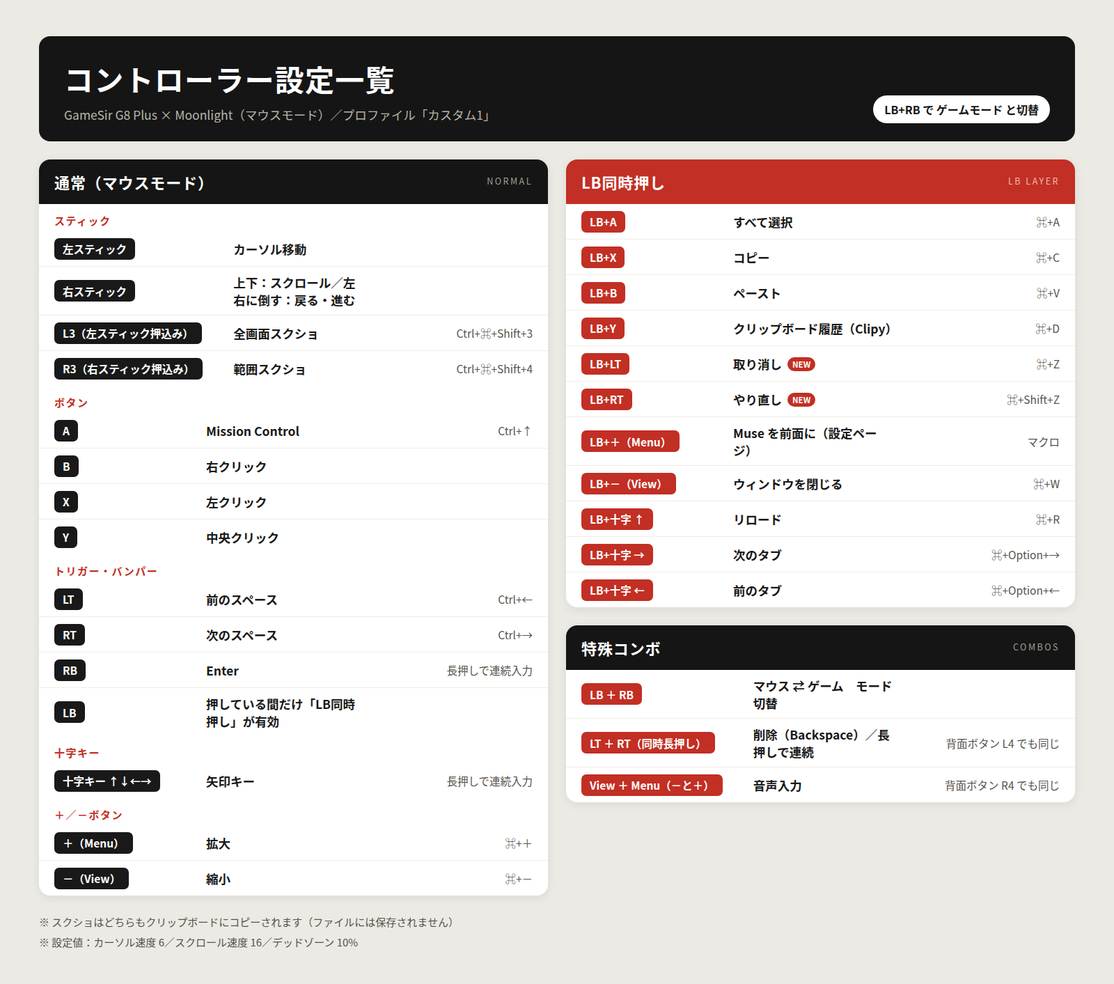
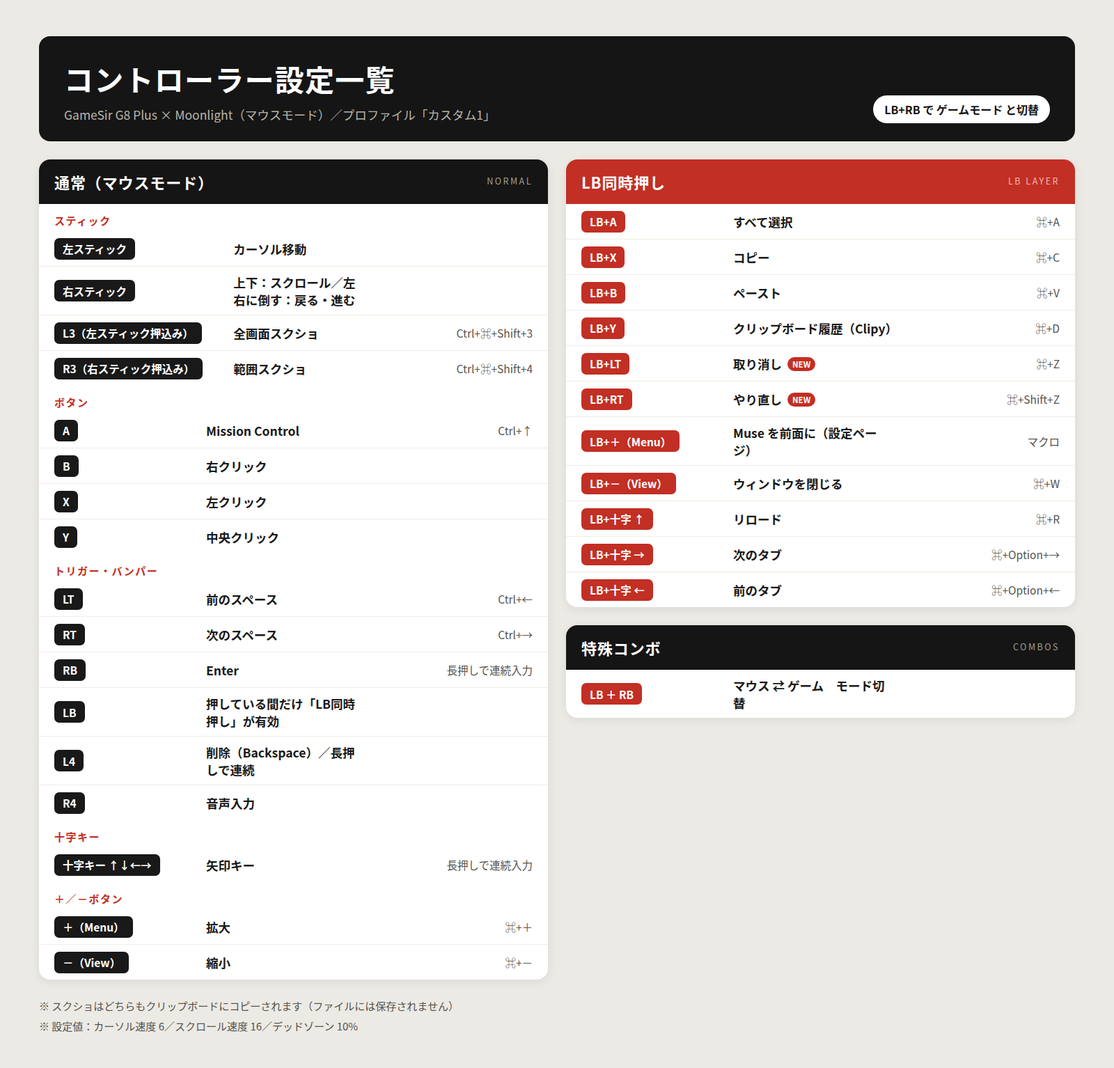
controller-map: simplify L4/R4 rows, move them into trigger/bumper group

Changed region(s): [[0.0312, 0.0311, 0.9688, 0.9653], [0.4062, 0.5916, 0.4688, 0.6851], [0.4062, 0.3114, 0.4688, 0.4048]]

diff --git a/controller-map/v1.html b/controller-map/v1.html
@@ -40,7 +40,7 @@ footer { margin-top: 26px; font-size: 15px; color: #55534e; line-height: 1.9; }
   <div><h1>コントローラー設定一覧</h1><div class="sub">GameSir G8 Plus × Moonlight（マウスモード）／プロファイル「カスタム1」</div></div>
   <div class="mode">LB+RB で <b>ゲームモード</b> と切替</div>
 </header>
-<svg width="1504" height="624" viewBox="0 0 1504 624"><rect x="492" y="84" width="130" height="56" rx="14" fill="#191919"/><text x="557" y="122" text-anchor="middle" font-size="23" font-weight="700" fill="#fff">LT</text><rect x="882" y="84" width="130" height="56" rx="14" fill="#191919"/><text x="947" y="122" text-anchor="middle" font-size="23" font-weight="700" fill="#fff">RT</text><rect x="492" y="146" width="130" height="52" rx="12" fill="#fff" stroke="#191919" stroke-width="3"/><text x="557" y="181" text-anchor="middle" font-size="23" font-weight="700" fill="#191919">LB</text><rect x="882" y="146" width="130" height="52" rx="12" fill="#fff" stroke="#191919" stroke-width="3"/><text x="947" y="181" text-anchor="middle" font-size="23" font-weight="700" fill="#191919">RB</text><rect x="472" y="190" width="560" height="300" rx="100" fill="#ffffff" stroke="#191919" stroke-width="3.5"/><rect x="676" y="224" width="152" height="232" rx="18" fill="none" stroke="#cfccc2" stroke-width="2" stroke-dasharray="7 6"/><circle cx="706" cy="240" r="15" fill="#191919"/><text x="706" y="248" text-anchor="middle" font-size="19" font-weight="700" fill="#fff">－</text><circle cx="798" cy="240" r="15" fill="#191919"/><text x="798" y="248" text-anchor="middle" font-size="19" font-weight="700" fill="#fff">＋</text><circle cx="566" cy="306" r="47" fill="#222"/><circle cx="566" cy="306" r="30" fill="#454545"/><path d="M632 362 h32 v24 h24 v32 h-24 v24 h-32 v-24 h-24 v-32 h24 z" fill="#222"/><circle cx="806" cy="402" r="43" fill="#222"/><circle cx="806" cy="402" r="27" fill="#454545"/><circle cx="892" cy="252" r="25" fill="#fff" stroke="#191919" stroke-width="3"/><text x="892" y="260" text-anchor="middle" font-size="22" font-weight="700" fill="#191919">Y</text><circle cx="838" cy="306" r="25" fill="#fff" stroke="#191919" stroke-width="3"/><text x="838" y="314" text-anchor="middle" font-size="22" font-weight="700" fill="#191919">X</text><circle cx="946" cy="306" r="25" fill="#fff" stroke="#191919" stroke-width="3"/><text x="946" y="314" text-anchor="middle" font-size="22" font-weight="700" fill="#191919">B</text><circle cx="892" cy="360" r="25" fill="#fff" stroke="#191919" stroke-width="3"/><text x="892" y="368" text-anchor="middle" font-size="22" font-weight="700" fill="#191919">A</text><text x="628" y="46" text-anchor="middle" font-size="22" font-weight="700" fill="#191919">－ View</text><text x="628" y="72" text-anchor="middle" font-size="17.5" fill="#55534e">縮小（⌘+－）</text><line x1="652" y1="82" x2="704" y2="219" stroke="#a39e93" stroke-width="1.6"/><circle cx="706" cy="225" r="4.5" fill="#c22f24"/><text x="856" y="46" text-anchor="middle" font-size="22" font-weight="700" fill="#191919">＋ Menu</text><text x="856" y="72" text-anchor="middle" font-size="17.5" fill="#55534e">拡大（⌘+＋）</text><line x1="832" y1="82" x2="800" y2="219" stroke="#a39e93" stroke-width="1.6"/><circle cx="798" cy="225" r="4.5" fill="#c22f24"/><text x="436" y="96" text-anchor="end" font-size="24" font-weight="700" fill="#191919">LT</text><text x="436" y="124" text-anchor="end" font-size="19" fill="#55534e">前のスペース（Ctrl+←）</text><line x1="444" y1="100" x2="492" y2="112" stroke="#a39e93" stroke-width="1.6"/><circle cx="492" cy="112" r="4.5" fill="#c22f24"/><text x="436" y="182" text-anchor="end" font-size="24" font-weight="700" fill="#191919">LB</text><text x="436" y="210" text-anchor="end" font-size="19" fill="#55534e">押している間だけ LB同時押しが有効</text><line x1="444" y1="186" x2="492" y2="172" stroke="#a39e93" stroke-width="1.6"/><circle cx="492" cy="172" r="4.5" fill="#c22f24"/><text x="436" y="268" text-anchor="end" font-size="24" font-weight="700" fill="#191919">左スティック</text><text x="436" y="296" text-anchor="end" font-size="19" fill="#55534e">カーソル移動</text><line x1="444" y1="272" x2="521" y2="296" stroke="#a39e93" stroke-width="1.6"/><circle cx="521" cy="296" r="4.5" fill="#c22f24"/><text x="436" y="352" text-anchor="end" font-size="24" font-weight="700" fill="#191919">L3（押込み）</text><text x="436" y="380" text-anchor="end" font-size="19" fill="#55534e">全画面スクショ（Ctrl+⌘+Shift+3）</text><line x1="444" y1="356" x2="536" y2="342" stroke="#a39e93" stroke-width="1.6"/><circle cx="536" cy="342" r="4.5" fill="#c22f24"/><text x="436" y="452" text-anchor="end" font-size="24" font-weight="700" fill="#191919">十字キー</text><text x="436" y="480" text-anchor="end" font-size="19" fill="#55534e">矢印キー（長押しで連続入力）</text><line x1="444" y1="456" x2="608" y2="402" stroke="#a39e93" stroke-width="1.6"/><circle cx="608" cy="402" r="4.5" fill="#c22f24"/><text x="1068" y="96" font-size="24" font-weight="700" fill="#191919">RT</text><text x="1068" y="124" font-size="19" fill="#55534e">次のスペース（Ctrl+→）</text><line x1="1012" y1="112" x2="1060" y2="100" stroke="#a39e93" stroke-width="1.6"/><circle cx="1012" cy="112" r="4.5" fill="#c22f24"/><text x="1068" y="182" font-size="24" font-weight="700" fill="#191919">RB</text><text x="1068" y="210" font-size="19" fill="#55534e">Enter（長押しで連続入力）</text><line x1="1012" y1="172" x2="1060" y2="186" stroke="#a39e93" stroke-width="1.6"/><circle cx="1012" cy="172" r="4.5" fill="#c22f24"/><line x1="971" y1="300" x2="1056" y2="282" stroke="#a39e93" stroke-width="1.6"/><circle cx="971" cy="300" r="4.5" fill="#c22f24"/><circle cx="1122" cy="240" r="17" fill="#fff" stroke="#191919" stroke-width="2.5"/><text x="1122" y="246" text-anchor="middle" font-size="16" font-weight="700" fill="#191919">Y</text><circle cx="1080" cy="282" r="17" fill="#fff" stroke="#191919" stroke-width="2.5"/><text x="1080" y="288" text-anchor="middle" font-size="16" font-weight="700" fill="#191919">X</text><circle cx="1164" cy="282" r="17" fill="#fff" stroke="#191919" stroke-width="2.5"/><text x="1164" y="288" text-anchor="middle" font-size="16" font-weight="700" fill="#191919">B</text><circle cx="1122" cy="324" r="17" fill="#fff" stroke="#191919" stroke-width="2.5"/><text x="1122" y="330" text-anchor="middle" font-size="16" font-weight="700" fill="#191919">A</text><text x="1200" y="232" font-size="19.5" font-weight="700" fill="#191919">Y　中央クリック</text><text x="1200" y="262" font-size="19.5" font-weight="700" fill="#191919">X　左クリック</text><text x="1200" y="292" font-size="19.5" font-weight="700" fill="#191919">A　Mission Control（Ctrl+↑）</text><text x="1200" y="322" font-size="19.5" font-weight="700" fill="#191919">B　右クリック</text><text x="1068" y="404" font-size="24" font-weight="700" fill="#191919">右スティック</text><text x="1068" y="432" font-size="19" fill="#55534e">上下：スクロール／左右に倒す：戻る・進む</text><line x1="849" y1="402" x2="1060" y2="408" stroke="#a39e93" stroke-width="1.6"/><circle cx="849" cy="402" r="4.5" fill="#c22f24"/><text x="1068" y="492" font-size="24" font-weight="700" fill="#191919">R3（押込み）</text><text x="1068" y="520" font-size="19" fill="#55534e">範囲スクショ（Ctrl+⌘+Shift+4）</text><line x1="836" y1="434" x2="1060" y2="496" stroke="#a39e93" stroke-width="1.6"/><circle cx="836" cy="434" r="4.5" fill="#c22f24"/></svg>
+<svg width="1504" height="624" viewBox="0 0 1504 624"><rect x="492" y="84" width="130" height="56" rx="14" fill="#191919"/><text x="557" y="122" text-anchor="middle" font-size="23" font-weight="700" fill="#fff">LT</text><rect x="882" y="84" width="130" height="56" rx="14" fill="#191919"/><text x="947" y="122" text-anchor="middle" font-size="23" font-weight="700" fill="#fff">RT</text><rect x="492" y="146" width="130" height="52" rx="12" fill="#fff" stroke="#191919" stroke-width="3"/><text x="557" y="181" text-anchor="middle" font-size="23" font-weight="700" fill="#191919">LB</text><rect x="882" y="146" width="130" height="52" rx="12" fill="#fff" stroke="#191919" stroke-width="3"/><text x="947" y="181" text-anchor="middle" font-size="23" font-weight="700" fill="#191919">RB</text><rect x="472" y="190" width="560" height="300" rx="100" fill="#ffffff" stroke="#191919" stroke-width="3.5"/><rect x="676" y="224" width="152" height="232" rx="18" fill="none" stroke="#cfccc2" stroke-width="2" stroke-dasharray="7 6"/><circle cx="706" cy="240" r="15" fill="#191919"/><text x="706" y="248" text-anchor="middle" font-size="19" font-weight="700" fill="#fff">－</text><circle cx="798" cy="240" r="15" fill="#191919"/><text x="798" y="248" text-anchor="middle" font-size="19" font-weight="700" fill="#fff">＋</text><circle cx="566" cy="306" r="47" fill="#222"/><circle cx="566" cy="306" r="30" fill="#454545"/><path d="M632 362 h32 v24 h24 v32 h-24 v24 h-32 v-24 h-24 v-32 h24 z" fill="#222"/><circle cx="806" cy="402" r="43" fill="#222"/><circle cx="806" cy="402" r="27" fill="#454545"/><circle cx="892" cy="252" r="25" fill="#fff" stroke="#191919" stroke-width="3"/><text x="892" y="260" text-anchor="middle" font-size="22" font-weight="700" fill="#191919">Y</text><circle cx="838" cy="306" r="25" fill="#fff" stroke="#191919" stroke-width="3"/><text x="838" y="314" text-anchor="middle" font-size="22" font-weight="700" fill="#191919">X</text><circle cx="946" cy="306" r="25" fill="#fff" stroke="#191919" stroke-width="3"/><text x="946" y="314" text-anchor="middle" font-size="22" font-weight="700" fill="#191919">B</text><circle cx="892" cy="360" r="25" fill="#fff" stroke="#191919" stroke-width="3"/><text x="892" y="368" text-anchor="middle" font-size="22" font-weight="700" fill="#191919">A</text><text x="628" y="46" text-anchor="middle" font-size="22" font-weight="700" fill="#191919">－ View</text><text x="628" y="72" text-anchor="middle" font-size="17.5" fill="#55534e">縮小（⌘+－）</text><line x1="652" y1="82" x2="704" y2="219" stroke="#a39e93" stroke-width="1.6"/><circle cx="706" cy="225" r="4.5" fill="#c22f24"/><text x="856" y="46" text-anchor="middle" font-size="22" font-weight="700" fill="#191919">＋ Menu</text><text x="856" y="72" text-anchor="middle" font-size="17.5" fill="#55534e">拡大（⌘+＋）</text><line x1="832" y1="82" x2="800" y2="219" stroke="#a39e93" stroke-width="1.6"/><circle cx="798" cy="225" r="4.5" fill="#c22f24"/><text x="436" y="96" text-anchor="end" font-size="24" font-weight="700" fill="#191919">LT</text><text x="436" y="124" text-anchor="end" font-size="19" fill="#55534e">前のスペース（Ctrl+←）</text><line x1="444" y1="100" x2="492" y2="112" stroke="#a39e93" stroke-width="1.6"/><circle cx="492" cy="112" r="4.5" fill="#c22f24"/><text x="436" y="182" text-anchor="end" font-size="24" font-weight="700" fill="#191919">LB</text><text x="436" y="210" text-anchor="end" font-size="19" fill="#55534e">押している間だけ LB同時押しが有効</text><line x1="444" y1="186" x2="492" y2="172" stroke="#a39e93" stroke-width="1.6"/><circle cx="492" cy="172" r="4.5" fill="#c22f24"/><text x="436" y="268" text-anchor="end" font-size="24" font-weight="700" fill="#191919">左スティック</text><text x="436" y="296" text-anchor="end" font-size="19" fill="#55534e">カーソル移動</text><line x1="444" y1="272" x2="521" y2="296" stroke="#a39e93" stroke-width="1.6"/><circle cx="521" cy="296" r="4.5" fill="#c22f24"/><text x="436" y="352" text-anchor="end" font-size="24" font-weight="700" fill="#191919">L3（押込み）</text><text x="436" y="380" text-anchor="end" font-size="19" fill="#55534e">全画面スクショ（Ctrl+⌘+Shift+3）</text><line x1="444" y1="356" x2="536" y2="342" stroke="#a39e93" stroke-width="1.6"/><circle cx="536" cy="342" r="4.5" fill="#c22f24"/><text x="436" y="452" text-anchor="end" font-size="24" font-weight="700" fill="#191919">十字キー</text><text x="436" y="480" text-anchor="end" font-size="19" fill="#55534e">矢印キー（長押しで連続入力）</text><line x1="444" y1="456" x2="608" y2="402" stroke="#a39e93" stroke-width="1.6"/><circle cx="608" cy="402" r="4.5" fill="#c22f24"/><text x="1068" y="96" font-size="24" font-weight="700" fill="#191919">RT</text><text x="1068" y="124" font-size="19" fill="#55534e">次のスペース（Ctrl+→）</text><line x1="1012" y1="112" x2="1060" y2="100" stroke="#a39e93" stroke-width="1.6"/><circle cx="1012" cy="112" r="4.5" fill="#c22f24"/><text x="1068" y="182" font-size="24" font-weight="700" fill="#191919">RB</text><text x="1068" y="210" font-size="19" fill="#55534e">Enter（長押しで連続入力）</text><line x1="1012" y1="172" x2="1060" y2="186" stroke="#a39e93" stroke-width="1.6"/><circle cx="1012" cy="172" r="4.5" fill="#c22f24"/><line x1="971" y1="300" x2="1056" y2="282" stroke="#a39e93" stroke-width="1.6"/><circle cx="971" cy="300" r="4.5" fill="#c22f24"/><circle cx="1122" cy="240" r="17" fill="#fff" stroke="#191919" stroke-width="2.5"/><text x="1122" y="246" text-anchor="middle" font-size="16" font-weight="700" fill="#191919">Y</text><circle cx="1080" cy="282" r="17" fill="#fff" stroke="#191919" stroke-width="2.5"/><text x="1080" y="288" text-anchor="middle" font-size="16" font-weight="700" fill="#191919">X</text><circle cx="1164" cy="282" r="17" fill="#fff" stroke="#191919" stroke-width="2.5"/><text x="1164" y="288" text-anchor="middle" font-size="16" font-weight="700" fill="#191919">B</text><circle cx="1122" cy="324" r="17" fill="#fff" stroke="#191919" stroke-width="2.5"/><text x="1122" y="330" text-anchor="middle" font-size="16" font-weight="700" fill="#191919">A</text><text x="1200" y="232" font-size="19.5" font-weight="700" fill="#191919">Y　中央クリック</text><text x="1200" y="262" font-size="19.5" font-weight="700" fill="#191919">X　左クリック</text><text x="1200" y="292" font-size="19.5" font-weight="700" fill="#191919">A　Mission Control（Ctrl+↑）</text><text x="1200" y="322" font-size="19.5" font-weight="700" fill="#191919">B　右クリック</text><text x="1068" y="404" font-size="24" font-weight="700" fill="#191919">右スティック</text><text x="1068" y="432" font-size="19" fill="#55534e">上下：スクロール／左右に倒す：戻る・進む</text><line x1="849" y1="402" x2="1060" y2="408" stroke="#a39e93" stroke-width="1.6"/><circle cx="849" cy="402" r="4.5" fill="#c22f24"/><text x="1068" y="492" font-size="24" font-weight="700" fill="#191919">R3（押込み）</text><text x="1068" y="520" font-size="19" fill="#55534e">範囲スクショ（Ctrl+⌘+Shift+4）</text><line x1="836" y1="434" x2="1060" y2="496" stroke="#a39e93" stroke-width="1.6"/><circle cx="836" cy="434" r="4.5" fill="#c22f24"/><text x="436" y="566" text-anchor="end" font-size="24" font-weight="700" fill="#191919">L4</text><text x="436" y="594" text-anchor="end" font-size="19" fill="#55534e">削除（Backspace）／長押しで連続</text><line x1="444" y1="570" x2="548" y2="452" stroke="#a39e93" stroke-width="1.6"/><circle cx="548" cy="452" r="4.5" fill="#c22f24"/><text x="1068" y="566" font-size="24" font-weight="700" fill="#191919">R4</text><text x="1068" y="594" font-size="19" fill="#55534e">音声入力</text><line x1="956" y1="452" x2="1060" y2="570" stroke="#a39e93" stroke-width="1.6"/><circle cx="956" cy="452" r="4.5" fill="#c22f24"/></svg>
 <div class="band">
   <h2>LB同時押し<span class="en">LB LAYER</span></h2>
   <p class="lead">LBを押している間だけ効く第2レイヤー。編集系のショートカットを集約。</p>
@@ -48,7 +48,7 @@ footer { margin-top: 26px; font-size: 15px; color: #55534e; line-height: 1.9; }
 </div>
 <div class="band">
   <h2>特殊コンボ<span class="en">COMBOS</span></h2>
-  <div><div class="combo"><span class="btn">LB ＋ RB</span><span class="act">マウス ⇄ ゲーム　モード切替</span><span class="note"></span></div><div class="combo"><span class="btn">LT ＋ RT（同時長押し）</span><span class="act">削除（Backspace）／長押しで連続</span><span class="note">背面ボタン L4 でも同じ</span></div><div class="combo"><span class="btn">View ＋ Menu（－と＋）</span><span class="act">音声入力</span><span class="note">背面ボタン R4 でも同じ</span></div></div>
+  <div><div class="combo"><span class="btn">LB ＋ RB</span><span class="act">マウス ⇄ ゲーム　モード切替</span><span class="note"></span></div></div>
 </div>
 <footer>※ スクショはどちらもクリップボードにコピーされます（ファイルには保存されません）<br>※ 設定値：カーソル速度 6／スクロール速度 16／デッドゾーン 10%</footer>
 </div>

diff --git a/controller-map/v3.html b/controller-map/v3.html
@@ -43,7 +43,7 @@ footer { margin-top: 4px; font-size: 15px; color: #68707c; line-height: 1.9; }
   <div class="card">
     <h2><span class="dot"></span>通常（マウスモード）</h2>
     <p class="lead">普段の操作はこの面。クリック・スクロール・スペース移動。</p>
-    <h3>スティック</h3><div class="tile"><span class="btn">左スティック</span><span class="act">カーソル移動</span><span class="key"></span></div><div class="tile"><span class="btn">右スティック</span><span class="act">上下：スクロール／左右に倒す：戻る・進む</span><span class="key"></span></div><div class="tile"><span class="btn">L3（左スティック押込み）</span><span class="act">全画面スクショ</span><span class="key">Ctrl+⌘+Shift+3</span></div><div class="tile"><span class="btn">R3（右スティック押込み）</span><span class="act">範囲スクショ</span><span class="key">Ctrl+⌘+Shift+4</span></div><h3>ボタン</h3><div class="tile"><span class="btn">A</span><span class="act">Mission Control</span><span class="key">Ctrl+↑</span></div><div class="tile"><span class="btn">B</span><span class="act">右クリック</span><span class="key"></span></div><div class="tile"><span class="btn">X</span><span class="act">左クリック</span><span class="key"></span></div><div class="tile"><span class="btn">Y</span><span class="act">中央クリック</span><span class="key"></span></div><h3>トリガー・バンパー</h3><div class="tile"><span class="btn">LT</span><span class="act">前のスペース</span><span class="key">Ctrl+←</span></div><div class="tile"><span class="btn">RT</span><span class="act">次のスペース</span><span class="key">Ctrl+→</span></div><div class="tile"><span class="btn">RB</span><span class="act">Enter</span><span class="key">長押しで連続入力</span></div><div class="tile"><span class="btn">LB</span><span class="act">押している間だけ「LB同時押し」が有効</span><span class="key"></span></div><h3>十字キー</h3><div class="tile"><span class="btn">十字キー ↑↓←→</span><span class="act">矢印キー</span><span class="key">長押しで連続入力</span></div><h3>＋／－ボタン</h3><div class="tile"><span class="btn">＋（Menu）</span><span class="act">拡大</span><span class="key">⌘+＋</span></div><div class="tile"><span class="btn">－（View）</span><span class="act">縮小</span><span class="key">⌘+－</span></div>
+    <h3>スティック</h3><div class="tile"><span class="btn">左スティック</span><span class="act">カーソル移動</span><span class="key"></span></div><div class="tile"><span class="btn">右スティック</span><span class="act">上下：スクロール／左右に倒す：戻る・進む</span><span class="key"></span></div><div class="tile"><span class="btn">L3（左スティック押込み）</span><span class="act">全画面スクショ</span><span class="key">Ctrl+⌘+Shift+3</span></div><div class="tile"><span class="btn">R3（右スティック押込み）</span><span class="act">範囲スクショ</span><span class="key">Ctrl+⌘+Shift+4</span></div><h3>ボタン</h3><div class="tile"><span class="btn">A</span><span class="act">Mission Control</span><span class="key">Ctrl+↑</span></div><div class="tile"><span class="btn">B</span><span class="act">右クリック</span><span class="key"></span></div><div class="tile"><span class="btn">X</span><span class="act">左クリック</span><span class="key"></span></div><div class="tile"><span class="btn">Y</span><span class="act">中央クリック</span><span class="key"></span></div><h3>トリガー・バンパー</h3><div class="tile"><span class="btn">LT</span><span class="act">前のスペース</span><span class="key">Ctrl+←</span></div><div class="tile"><span class="btn">RT</span><span class="act">次のスペース</span><span class="key">Ctrl+→</span></div><div class="tile"><span class="btn">RB</span><span class="act">Enter</span><span class="key">長押しで連続入力</span></div><div class="tile"><span class="btn">LB</span><span class="act">押している間だけ「LB同時押し」が有効</span><span class="key"></span></div><div class="tile"><span class="btn">L4</span><span class="act">削除（Backspace）／長押しで連続</span><span class="key"></span></div><div class="tile"><span class="btn">R4</span><span class="act">音声入力</span><span class="key"></span></div><h3>十字キー</h3><div class="tile"><span class="btn">十字キー ↑↓←→</span><span class="act">矢印キー</span><span class="key">長押しで連続入力</span></div><h3>＋／－ボタン</h3><div class="tile"><span class="btn">＋（Menu）</span><span class="act">拡大</span><span class="key">⌘+＋</span></div><div class="tile"><span class="btn">－（View）</span><span class="act">縮小</span><span class="key">⌘+－</span></div>
   </div>
   <div>
     <div class="card lb">
@@ -53,8 +53,8 @@ footer { margin-top: 4px; font-size: 15px; color: #68707c; line-height: 1.9; }
     </div>
     <div class="card combo">
       <h2><span class="dot"></span>特殊コンボ</h2>
-      <p class="lead">同時押し専用の操作。背面ボタンからも出せる。</p>
-      <div class="tile"><span class="btn">LB ＋ RB</span><span class="act">マウス ⇄ ゲーム　モード切替</span><span class="key"></span></div><div class="tile"><span class="btn">LT ＋ RT（同時長押し）</span><span class="act">削除（Backspace）／長押しで連続</span><span class="key">背面ボタン L4 でも同じ</span></div><div class="tile"><span class="btn">View ＋ Menu（－と＋）</span><span class="act">音声入力</span><span class="key">背面ボタン R4 でも同じ</span></div>
+      <p class="lead">同時押し専用の操作。</p>
+      <div class="tile"><span class="btn">LB ＋ RB</span><span class="act">マウス ⇄ ゲーム　モード切替</span><span class="key"></span></div>
     </div>
   </div>
 </div>

diff --git a/controller-map/v2.html b/controller-map/v2.html
@@ -43,7 +43,7 @@ footer { margin-top: 24px; font-size: 15px; color: #55534e; line-height: 1.9; }
 <div class="cols">
   <section>
     <h2>通常（マウスモード）<span class="en">NORMAL</span></h2>
-    <h3>スティック</h3><table><tr><td class="btn"><span class="chip">左スティック</span></td><td class="act">カーソル移動</td><td class="key"></td></tr><tr><td class="btn"><span class="chip">右スティック</span></td><td class="act">上下：スクロール／左右に倒す：戻る・進む</td><td class="key"></td></tr><tr><td class="btn"><span class="chip">L3（左スティック押込み）</span></td><td class="act">全画面スクショ</td><td class="key">Ctrl+⌘+Shift+3</td></tr><tr><td class="btn"><span class="chip">R3（右スティック押込み）</span></td><td class="act">範囲スクショ</td><td class="key">Ctrl+⌘+Shift+4</td></tr></table><h3>ボタン</h3><table><tr><td class="btn"><span class="chip">A</span></td><td class="act">Mission Control</td><td class="key">Ctrl+↑</td></tr><tr><td class="btn"><span class="chip">B</span></td><td class="act">右クリック</td><td class="key"></td></tr><tr><td class="btn"><span class="chip">X</span></td><td class="act">左クリック</td><td class="key"></td></tr><tr><td class="btn"><span class="chip">Y</span></td><td class="act">中央クリック</td><td class="key"></td></tr></table><h3>トリガー・バンパー</h3><table><tr><td class="btn"><span class="chip">LT</span></td><td class="act">前のスペース</td><td class="key">Ctrl+←</td></tr><tr><td class="btn"><span class="chip">RT</span></td><td class="act">次のスペース</td><td class="key">Ctrl+→</td></tr><tr><td class="btn"><span class="chip">RB</span></td><td class="act">Enter</td><td class="key">長押しで連続入力</td></tr><tr><td class="btn"><span class="chip">LB</span></td><td class="act">押している間だけ「LB同時押し」が有効</td><td class="key"></td></tr></table><h3>十字キー</h3><table><tr><td class="btn"><span class="chip">十字キー ↑↓←→</span></td><td class="act">矢印キー</td><td class="key">長押しで連続入力</td></tr></table><h3>＋／－ボタン</h3><table><tr><td class="btn"><span class="chip">＋（Menu）</span></td><td class="act">拡大</td><td class="key">⌘+＋</td></tr><tr><td class="btn"><span class="chip">－（View）</span></td><td class="act">縮小</td><td class="key">⌘+－</td></tr></table>
+    <h3>スティック</h3><table><tr><td class="btn"><span class="chip">左スティック</span></td><td class="act">カーソル移動</td><td class="key"></td></tr><tr><td class="btn"><span class="chip">右スティック</span></td><td class="act">上下：スクロール／左右に倒す：戻る・進む</td><td class="key"></td></tr><tr><td class="btn"><span class="chip">L3（左スティック押込み）</span></td><td class="act">全画面スクショ</td><td class="key">Ctrl+⌘+Shift+3</td></tr><tr><td class="btn"><span class="chip">R3（右スティック押込み）</span></td><td class="act">範囲スクショ</td><td class="key">Ctrl+⌘+Shift+4</td></tr></table><h3>ボタン</h3><table><tr><td class="btn"><span class="chip">A</span></td><td class="act">Mission Control</td><td class="key">Ctrl+↑</td></tr><tr><td class="btn"><span class="chip">B</span></td><td class="act">右クリック</td><td class="key"></td></tr><tr><td class="btn"><span class="chip">X</span></td><td class="act">左クリック</td><td class="key"></td></tr><tr><td class="btn"><span class="chip">Y</span></td><td class="act">中央クリック</td><td class="key"></td></tr></table><h3>トリガー・バンパー</h3><table><tr><td class="btn"><span class="chip">LT</span></td><td class="act">前のスペース</td><td class="key">Ctrl+←</td></tr><tr><td class="btn"><span class="chip">RT</span></td><td class="act">次のスペース</td><td class="key">Ctrl+→</td></tr><tr><td class="btn"><span class="chip">RB</span></td><td class="act">Enter</td><td class="key">長押しで連続入力</td></tr><tr><td class="btn"><span class="chip">LB</span></td><td class="act">押している間だけ「LB同時押し」が有効</td><td class="key"></td></tr><tr><td class="btn"><span class="chip">L4</span></td><td class="act">削除（Backspace）／長押しで連続</td><td class="key"></td></tr><tr><td class="btn"><span class="chip">R4</span></td><td class="act">音声入力</td><td class="key"></td></tr></table><h3>十字キー</h3><table><tr><td class="btn"><span class="chip">十字キー ↑↓←→</span></td><td class="act">矢印キー</td><td class="key">長押しで連続入力</td></tr></table><h3>＋／－ボタン</h3><table><tr><td class="btn"><span class="chip">＋（Menu）</span></td><td class="act">拡大</td><td class="key">⌘+＋</td></tr><tr><td class="btn"><span class="chip">－（View）</span></td><td class="act">縮小</td><td class="key">⌘+－</td></tr></table>
   </section>
   <div>
     <section>
@@ -52,7 +52,7 @@ footer { margin-top: 24px; font-size: 15px; color: #55534e; line-height: 1.9; }
     </section>
     <section class="wide">
       <h2>特殊コンボ<span class="en">COMBOS</span></h2>
-      <table><tr><td class="btn"><span class="chip red">LB ＋ RB</span></td><td class="act">マウス ⇄ ゲーム　モード切替</td><td class="key"></td></tr><tr><td class="btn"><span class="chip red">LT ＋ RT（同時長押し）</span></td><td class="act">削除（Backspace）／長押しで連続</td><td class="key">背面ボタン L4 でも同じ</td></tr><tr><td class="btn"><span class="chip red">View ＋ Menu（－と＋）</span></td><td class="act">音声入力</td><td class="key">背面ボタン R4 でも同じ</td></tr></table>
+      <table><tr><td class="btn"><span class="chip red">LB ＋ RB</span></td><td class="act">マウス ⇄ ゲーム　モード切替</td><td class="key"></td></tr></table>
     </section>
   </div>
 </div>

diff --git a/controller-map/v4.html b/controller-map/v4.html
@@ -42,7 +42,7 @@ footer { font-size: 14.5px; color: #6f7d95; line-height: 1.9; font-family: "Noto
 <div class="cols">
   <div class="panel">
     <h2>通常<span class="en">NORMAL / MOUSE MODE</span></h2>
-    <h3>スティック</h3><div class="row"><span class="btn">左スティック</span><span class="act">カーソル移動</span><span class="key"></span></div><div class="row"><span class="btn">右スティック</span><span class="act">上下：スクロール／左右に倒す：戻る・進む</span><span class="key"></span></div><div class="row"><span class="btn">L3（左スティック押込み）</span><span class="act">全画面スクショ</span><span class="key">Ctrl+⌘+Shift+3</span></div><div class="row"><span class="btn">R3（右スティック押込み）</span><span class="act">範囲スクショ</span><span class="key">Ctrl+⌘+Shift+4</span></div><h3>ボタン</h3><div class="row"><span class="btn">A</span><span class="act">Mission Control</span><span class="key">Ctrl+↑</span></div><div class="row"><span class="btn">B</span><span class="act">右クリック</span><span class="key"></span></div><div class="row"><span class="btn">X</span><span class="act">左クリック</span><span class="key"></span></div><div class="row"><span class="btn">Y</span><span class="act">中央クリック</span><span class="key"></span></div><h3>トリガー・バンパー</h3><div class="row"><span class="btn">LT</span><span class="act">前のスペース</span><span class="key">Ctrl+←</span></div><div class="row"><span class="btn">RT</span><span class="act">次のスペース</span><span class="key">Ctrl+→</span></div><div class="row"><span class="btn">RB</span><span class="act">Enter</span><span class="key">長押しで連続入力</span></div><div class="row"><span class="btn">LB</span><span class="act">押している間だけ「LB同時押し」が有効</span><span class="key"></span></div><h3>十字キー</h3><div class="row"><span class="btn">十字キー ↑↓←→</span><span class="act">矢印キー</span><span class="key">長押しで連続入力</span></div><h3>＋／－ボタン</h3><div class="row"><span class="btn">＋（Menu）</span><span class="act">拡大</span><span class="key">⌘+＋</span></div><div class="row"><span class="btn">－（View）</span><span class="act">縮小</span><span class="key">⌘+－</span></div>
+    <h3>スティック</h3><div class="row"><span class="btn">左スティック</span><span class="act">カーソル移動</span><span class="key"></span></div><div class="row"><span class="btn">右スティック</span><span class="act">上下：スクロール／左右に倒す：戻る・進む</span><span class="key"></span></div><div class="row"><span class="btn">L3（左スティック押込み）</span><span class="act">全画面スクショ</span><span class="key">Ctrl+⌘+Shift+3</span></div><div class="row"><span class="btn">R3（右スティック押込み）</span><span class="act">範囲スクショ</span><span class="key">Ctrl+⌘+Shift+4</span></div><h3>ボタン</h3><div class="row"><span class="btn">A</span><span class="act">Mission Control</span><span class="key">Ctrl+↑</span></div><div class="row"><span class="btn">B</span><span class="act">右クリック</span><span class="key"></span></div><div class="row"><span class="btn">X</span><span class="act">左クリック</span><span class="key"></span></div><div class="row"><span class="btn">Y</span><span class="act">中央クリック</span><span class="key"></span></div><h3>トリガー・バンパー</h3><div class="row"><span class="btn">LT</span><span class="act">前のスペース</span><span class="key">Ctrl+←</span></div><div class="row"><span class="btn">RT</span><span class="act">次のスペース</span><span class="key">Ctrl+→</span></div><div class="row"><span class="btn">RB</span><span class="act">Enter</span><span class="key">長押しで連続入力</span></div><div class="row"><span class="btn">LB</span><span class="act">押している間だけ「LB同時押し」が有効</span><span class="key"></span></div><div class="row"><span class="btn">L4</span><span class="act">削除（Backspace）／長押しで連続</span><span class="key"></span></div><div class="row"><span class="btn">R4</span><span class="act">音声入力</span><span class="key"></span></div><h3>十字キー</h3><div class="row"><span class="btn">十字キー ↑↓←→</span><span class="act">矢印キー</span><span class="key">長押しで連続入力</span></div><h3>＋／－ボタン</h3><div class="row"><span class="btn">＋（Menu）</span><span class="act">拡大</span><span class="key">⌘+＋</span></div><div class="row"><span class="btn">－（View）</span><span class="act">縮小</span><span class="key">⌘+－</span></div>
   </div>
   <div>
     <div class="panel lb">
@@ -51,7 +51,7 @@ footer { font-size: 14.5px; color: #6f7d95; line-height: 1.9; font-family: "Noto
     </div>
     <div class="panel combo">
       <h2>特殊コンボ<span class="en">COMBOS</span></h2>
-      <div class="row"><span class="btn">LB ＋ RB</span><span class="act">マウス ⇄ ゲーム　モード切替</span><span class="key"></span></div><div class="row"><span class="btn">LT ＋ RT（同時長押し）</span><span class="act">削除（Backspace）／長押しで連続</span><span class="key">背面ボタン L4 でも同じ</span></div><div class="row"><span class="btn">View ＋ Menu（－と＋）</span><span class="act">音声入力</span><span class="key">背面ボタン R4 でも同じ</span></div>
+      <div class="row"><span class="btn">LB ＋ RB</span><span class="act">マウス ⇄ ゲーム　モード切替</span><span class="key"></span></div>
     </div>
   </div>
 </div>

diff --git a/controller-map/v5.html b/controller-map/v5.html
@@ -42,7 +42,7 @@ footer { margin-top: 10px; border-top: 1px solid #e7e7e7; padding-top: 20px; fon
   <section>
     <h2>通常<span class="en">NORMAL</span></h2>
     <p class="lead">マウスモードの基本面</p>
-    <h3>スティック</h3><div class="row"><span class="btn">左スティック</span><span class="act">カーソル移動</span><span class="key"></span></div><div class="row"><span class="btn">右スティック</span><span class="act">上下：スクロール／左右に倒す：戻る・進む</span><span class="key"></span></div><div class="row"><span class="btn">L3（左スティック押込み）</span><span class="act">全画面スクショ</span><span class="key">Ctrl+⌘+Shift+3</span></div><div class="row"><span class="btn">R3（右スティック押込み）</span><span class="act">範囲スクショ</span><span class="key">Ctrl+⌘+Shift+4</span></div><h3>ボタン</h3><div class="row"><span class="btn">A</span><span class="act">Mission Control</span><span class="key">Ctrl+↑</span></div><div class="row"><span class="btn">B</span><span class="act">右クリック</span><span class="key"></span></div><div class="row"><span class="btn">X</span><span class="act">左クリック</span><span class="key"></span></div><div class="row"><span class="btn">Y</span><span class="act">中央クリック</span><span class="key"></span></div><h3>トリガー・バンパー</h3><div class="row"><span class="btn">LT</span><span class="act">前のスペース</span><span class="key">Ctrl+←</span></div><div class="row"><span class="btn">RT</span><span class="act">次のスペース</span><span class="key">Ctrl+→</span></div><div class="row"><span class="btn">RB</span><span class="act">Enter</span><span class="key">長押しで連続入力</span></div><div class="row"><span class="btn">LB</span><span class="act">押している間だけ「LB同時押し」が有効</span><span class="key"></span></div><h3>十字キー</h3><div class="row"><span class="btn">十字キー ↑↓←→</span><span class="act">矢印キー</span><span class="key">長押しで連続入力</span></div><h3>＋／－ボタン</h3><div class="row"><span class="btn">＋（Menu）</span><span class="act">拡大</span><span class="key">⌘+＋</span></div><div class="row"><span class="btn">－（View）</span><span class="act">縮小</span><span class="key">⌘+－</span></div>
+    <h3>スティック</h3><div class="row"><span class="btn">左スティック</span><span class="act">カーソル移動</span><span class="key"></span></div><div class="row"><span class="btn">右スティック</span><span class="act">上下：スクロール／左右に倒す：戻る・進む</span><span class="key"></span></div><div class="row"><span class="btn">L3（左スティック押込み）</span><span class="act">全画面スクショ</span><span class="key">Ctrl+⌘+Shift+3</span></div><div class="row"><span class="btn">R3（右スティック押込み）</span><span class="act">範囲スクショ</span><span class="key">Ctrl+⌘+Shift+4</span></div><h3>ボタン</h3><div class="row"><span class="btn">A</span><span class="act">Mission Control</span><span class="key">Ctrl+↑</span></div><div class="row"><span class="btn">B</span><span class="act">右クリック</span><span class="key"></span></div><div class="row"><span class="btn">X</span><span class="act">左クリック</span><span class="key"></span></div><div class="row"><span class="btn">Y</span><span class="act">中央クリック</span><span class="key"></span></div><h3>トリガー・バンパー</h3><div class="row"><span class="btn">LT</span><span class="act">前のスペース</span><span class="key">Ctrl+←</span></div><div class="row"><span class="btn">RT</span><span class="act">次のスペース</span><span class="key">Ctrl+→</span></div><div class="row"><span class="btn">RB</span><span class="act">Enter</span><span class="key">長押しで連続入力</span></div><div class="row"><span class="btn">LB</span><span class="act">押している間だけ「LB同時押し」が有効</span><span class="key"></span></div><div class="row"><span class="btn">L4</span><span class="act">削除（Backspace）／長押しで連続</span><span class="key"></span></div><div class="row"><span class="btn">R4</span><span class="act">音声入力</span><span class="key"></span></div><h3>十字キー</h3><div class="row"><span class="btn">十字キー ↑↓←→</span><span class="act">矢印キー</span><span class="key">長押しで連続入力</span></div><h3>＋／－ボタン</h3><div class="row"><span class="btn">＋（Menu）</span><span class="act">拡大</span><span class="key">⌘+＋</span></div><div class="row"><span class="btn">－（View）</span><span class="act">縮小</span><span class="key">⌘+－</span></div>
   </section>
   <div>
     <section>
@@ -52,7 +52,7 @@ footer { margin-top: 10px; border-top: 1px solid #e7e7e7; padding-top: 20px; fon
     </section>
     <section>
       <h2>特殊コンボ<span class="en">COMBOS</span></h2>
-      <div class="row"><span class="btn">LB ＋ RB</span><span class="act">マウス ⇄ ゲーム　モード切替</span><span class="key"></span></div><div class="row"><span class="btn">LT ＋ RT（同時長押し）</span><span class="act">削除（Backspace）／長押しで連続</span><span class="key">背面ボタン L4 でも同じ</span></div><div class="row"><span class="btn">View ＋ Menu（－と＋）</span><span class="act">音声入力</span><span class="key">背面ボタン R4 でも同じ</span></div>
+      <div class="row"><span class="btn">LB ＋ RB</span><span class="act">マウス ⇄ ゲーム　モード切替</span><span class="key"></span></div>
     </section>
   </div>
 </div>
